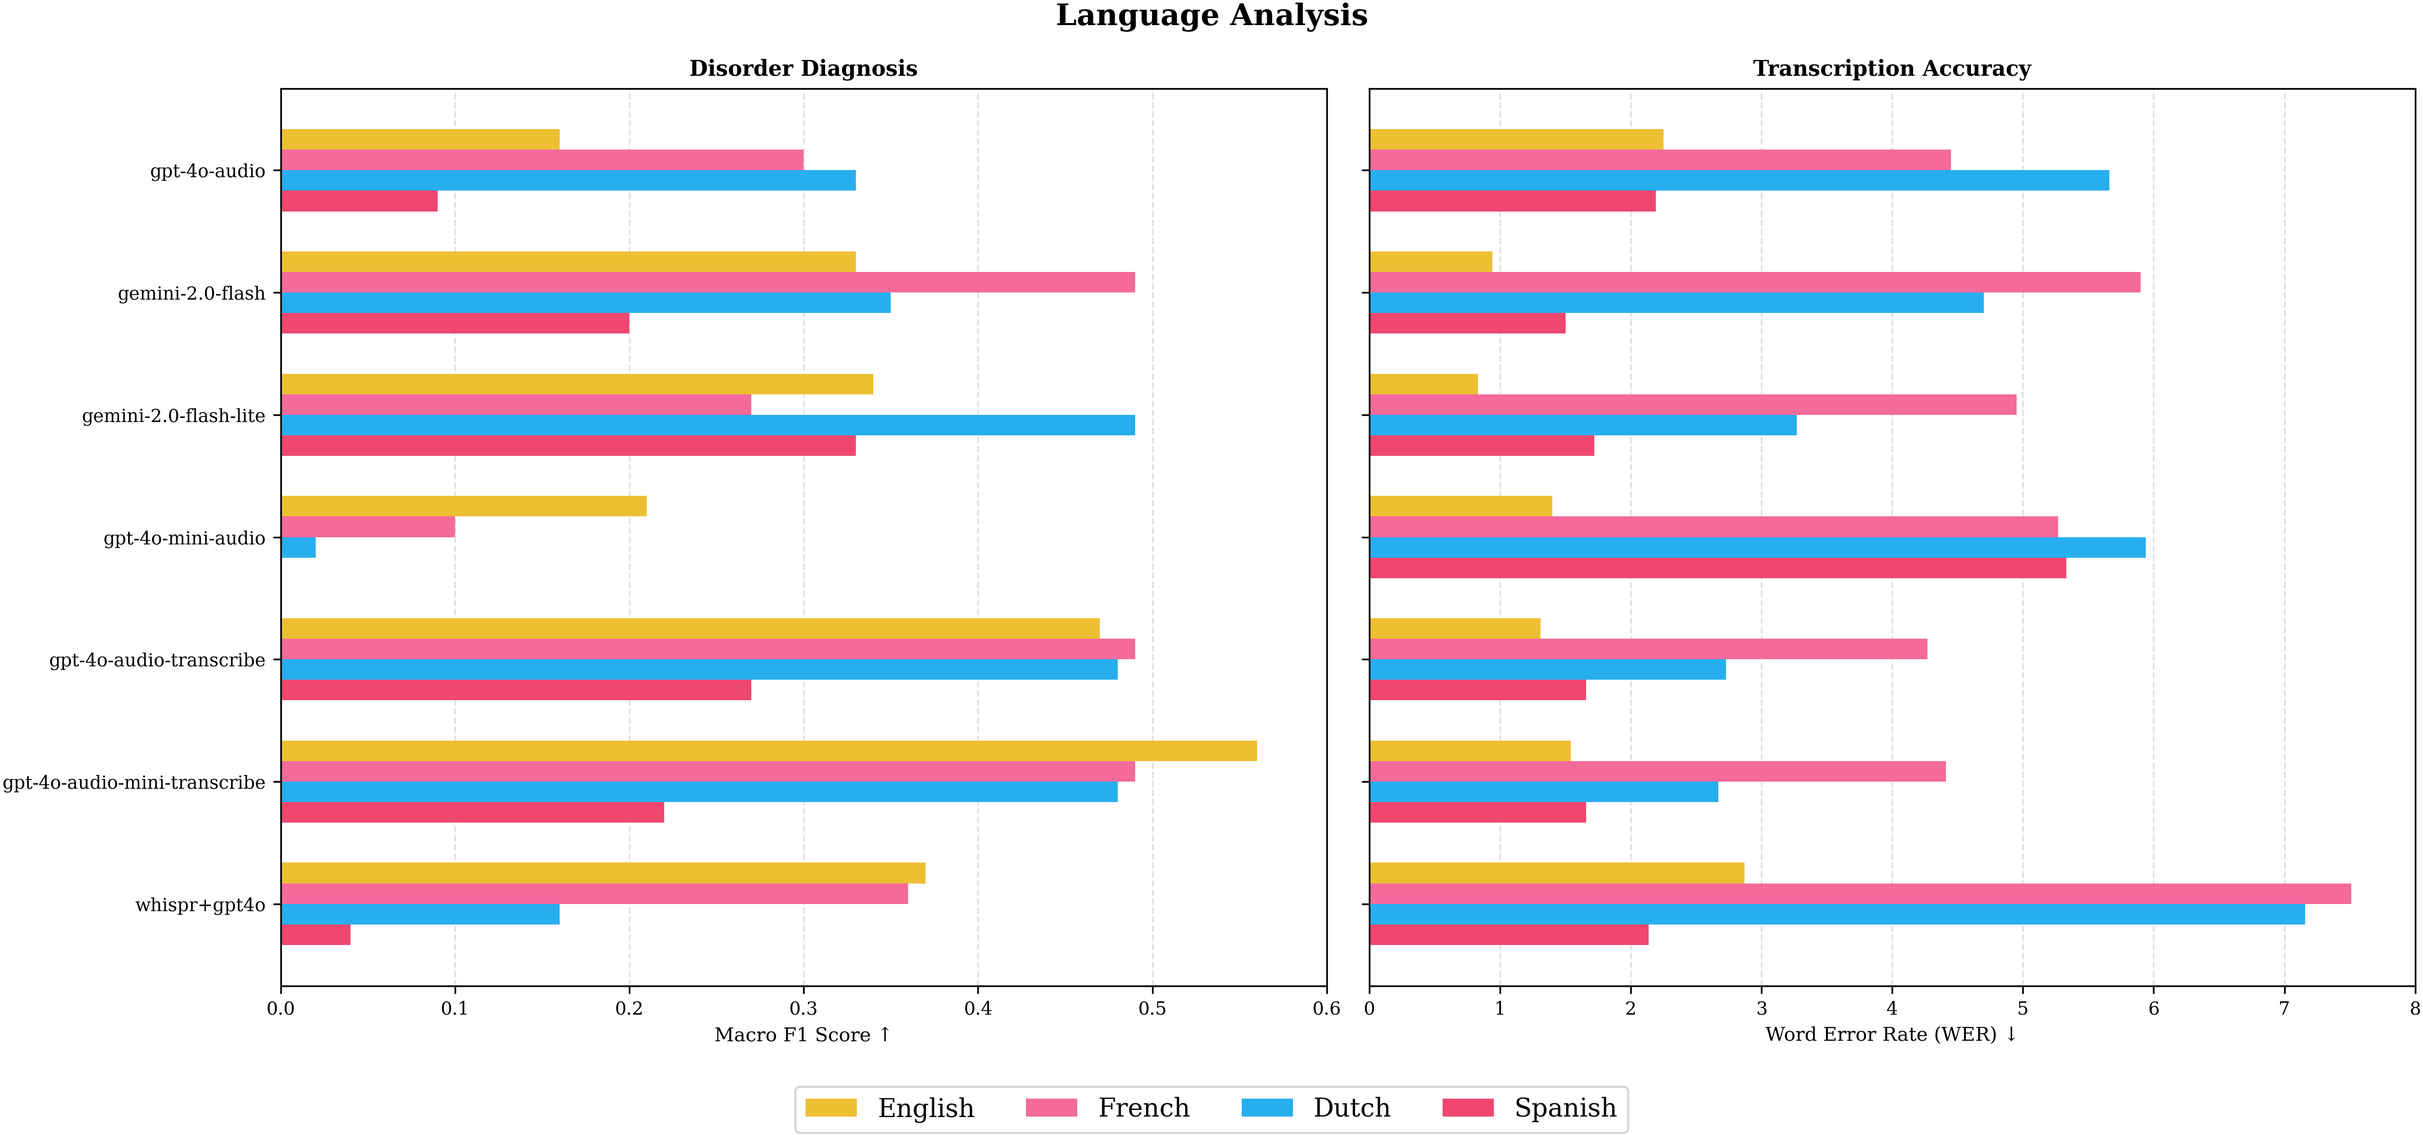
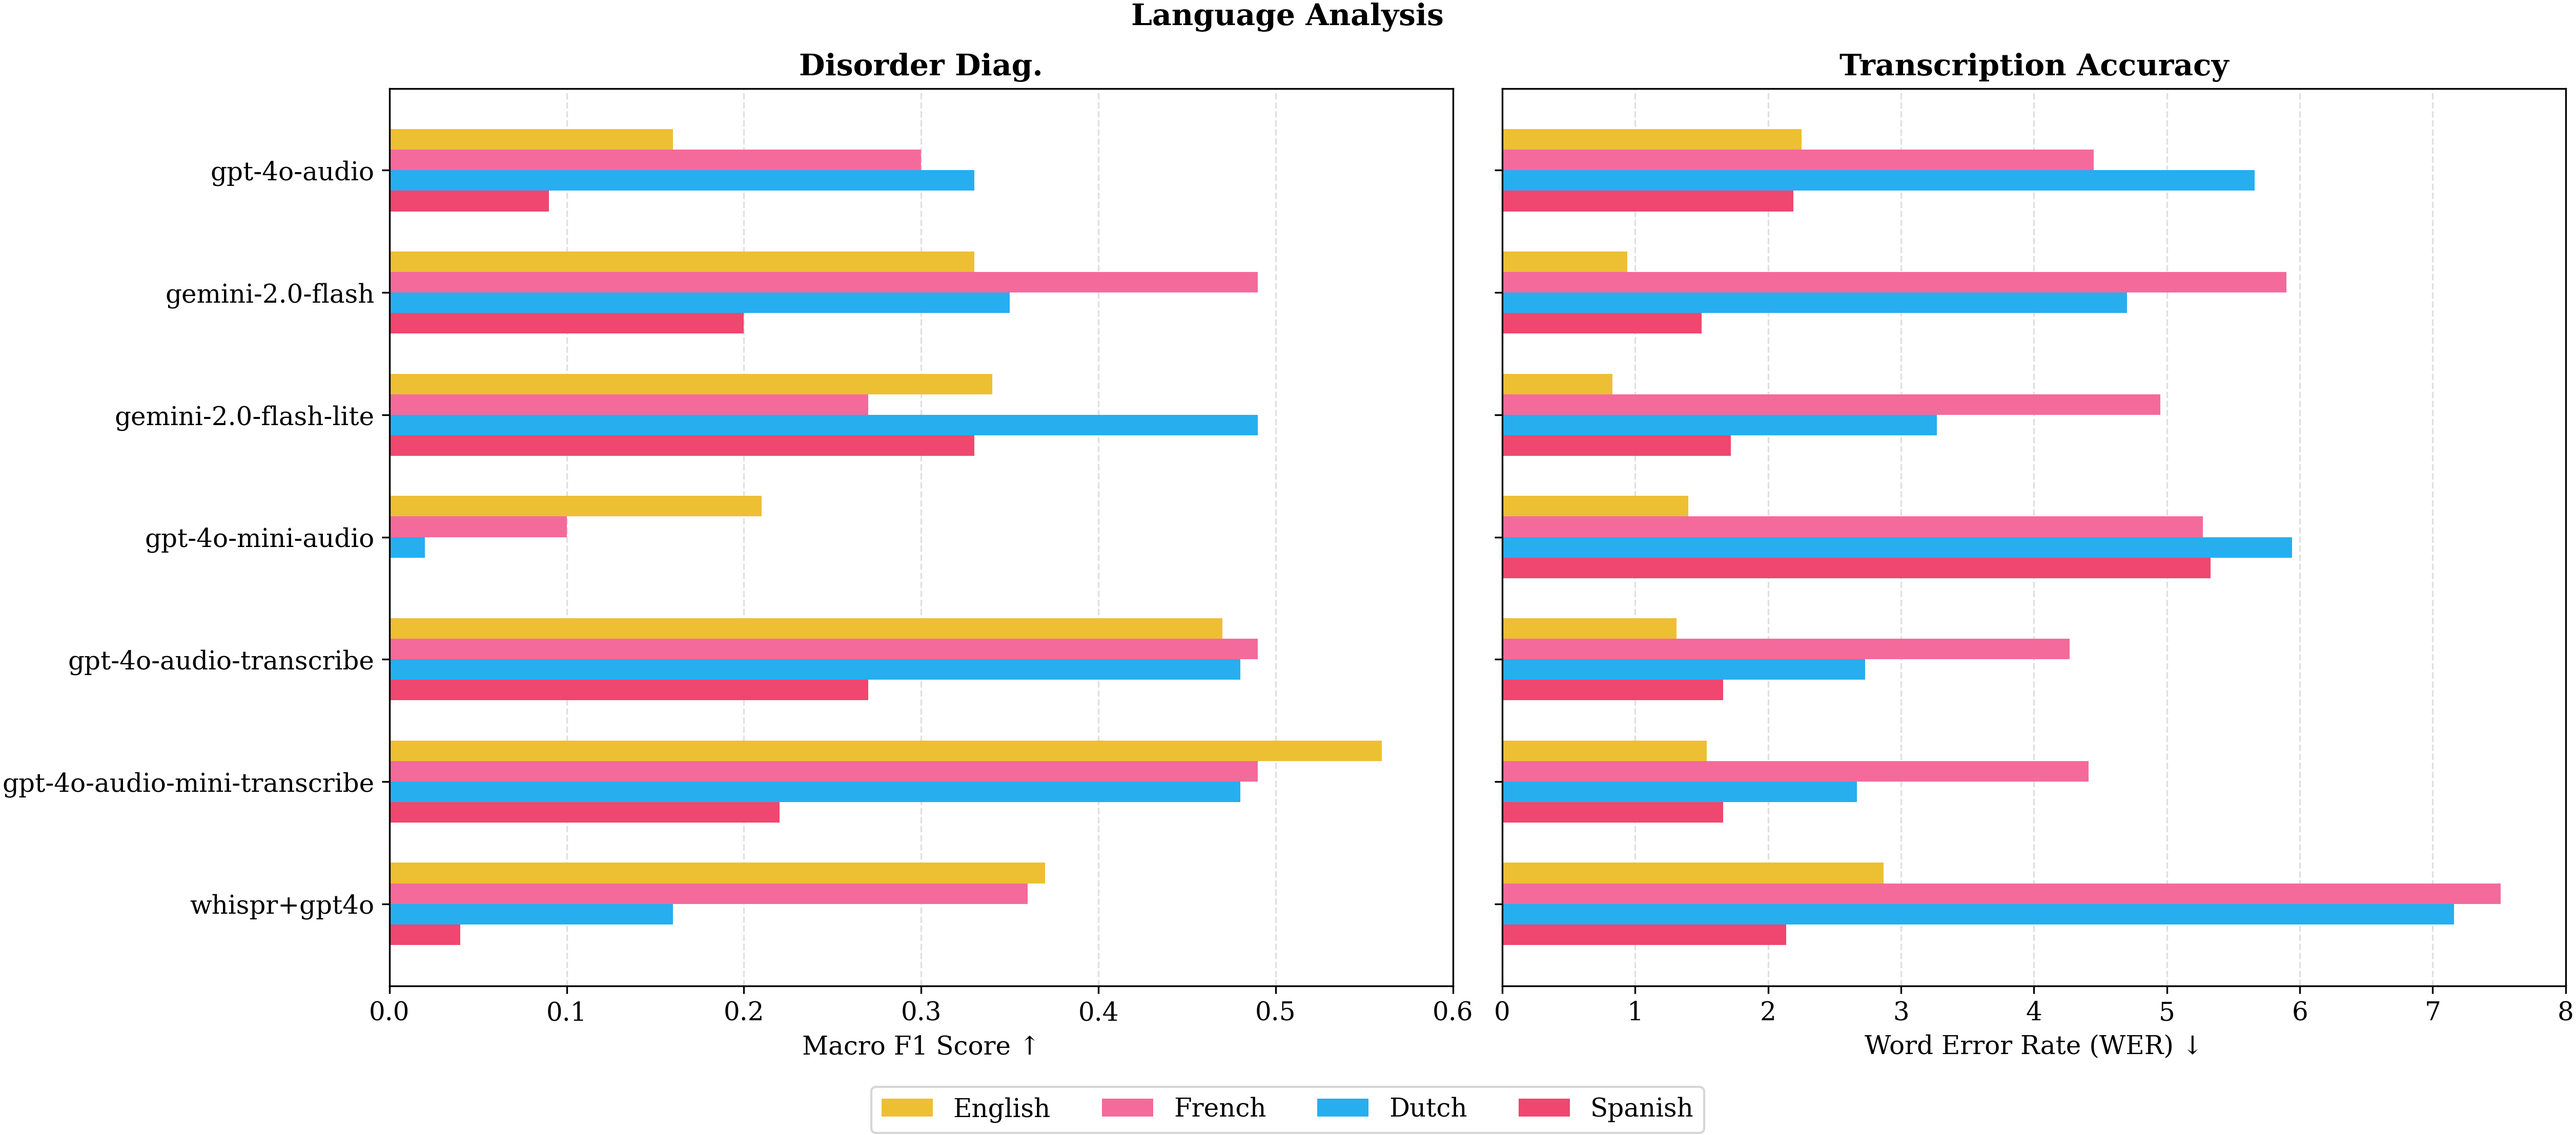
Update figures

diff --git a/all_scenarios.py b/all_scenarios.py
@@ -12,70 +12,70 @@ plt.rcParams['text.usetex'] = False
 MODEL_DATA = {
     'gpt-4o-audio': {
         'disorder_diagnosis': 0.44,
-        'asr_disorder_diagnosis': 0.02,
+        'asr_disorder_diagnosis': 0.4590,  # Updated from 0.02
         'disorder_type_classification': 0.36,
         'disorder_symptom_classification': 0.18,
         'transcription_accuracy': 2.25
     },
     'gemini-2.0-flash': {
         'disorder_diagnosis': 0.46,
-        'asr_disorder_diagnosis': 0.00,
+        'asr_disorder_diagnosis': 0.4600,  # Updated from 0.00
         'disorder_type_classification': 0.46,
         'disorder_symptom_classification': 0.18,
         'transcription_accuracy': 0.94
     },
     'gemini-2.0-flash-lite': {
         'disorder_diagnosis': 0.46,
-        'asr_disorder_diagnosis': 0.01,
+        'asr_disorder_diagnosis': 0.4590,  # Updated from 0.01
         'disorder_type_classification': 0.19,
         'disorder_symptom_classification': 0.41,
         'transcription_accuracy': 0.83
     },
     'gpt-4o-mini-audio': {
         'disorder_diagnosis': 0.20,
-        'asr_disorder_diagnosis': 0.07,
+        'asr_disorder_diagnosis': 0.4838,  # Updated from 0.07
         'disorder_type_classification': 0.15,
         'disorder_symptom_classification': 0.43,
         'transcription_accuracy': 1.40
     },
     'gpt-4o-mini-transcribe': {
         'disorder_diagnosis': 0.56,
-        'asr_disorder_diagnosis': 0.21,
+        'asr_disorder_diagnosis': 0.4600,  # Updated from 0.21
         'disorder_type_classification': 0.35,
         'disorder_symptom_classification': 0.31,
         'transcription_accuracy': 1.54
     },
     'gpt-4o-transcribe': {
         'disorder_diagnosis': 0.47,
-        'asr_disorder_diagnosis': 0.13,
+        'asr_disorder_diagnosis': 0.4600,  # Updated from 0.13
         'disorder_type_classification': 0.38,
         'disorder_symptom_classification': 0.31,
         'transcription_accuracy': 1.31
     },
     'whispr+gpt4o': {
         'disorder_diagnosis': 0.47,
-        'asr_disorder_diagnosis': 0.00,
+        'asr_disorder_diagnosis': 0.4611,  # Updated from 0.00
         'disorder_type_classification': 0.43,
         'disorder_symptom_classification': 0.36,
         'transcription_accuracy': 2.84
     },
     'qwen2.5-omni-7b': {
         'disorder_diagnosis': 0.71,
-        'asr_disorder_diagnosis': 0.07,
+        'asr_disorder_diagnosis': 0.713,  # Updated from 0.07
         'disorder_type_classification': 0.71,
         'disorder_symptom_classification': 0.71,
         'transcription_accuracy': 2.71
     },
     'qwen2.5-omni-3b': {
         'disorder_diagnosis': 0.42,
-        'asr_disorder_diagnosis': 0.01,
+        'asr_disorder_diagnosis': 0.738,  # Updated from 0.01
         'disorder_type_classification': 0.44,
         'disorder_symptom_classification': 0.44,
         'transcription_accuracy': 4.98
     },
     'qwen2-audio-7b': {
         'disorder_diagnosis': 0.45,
-        'asr_disorder_diagnosis': 0.03,
+        'asr_disorder_diagnosis': 0.743,  # Updated from 0.03
         'disorder_type_classification': 0.33,
         'disorder_symptom_classification': 0.10,
         'transcription_accuracy': 2.29
@@ -89,28 +89,28 @@ MODEL_DATA = {
     },
     'Phi-4': {
         'disorder_diagnosis': 0.32,
-        'asr_disorder_diagnosis': 0.06,
+        'asr_disorder_diagnosis': 0.724,  # Updated from 0.06
         'disorder_type_classification': 0.37,
         'disorder_symptom_classification': 0.13,
         'transcription_accuracy': 6.36
     },
     'granite-speech-3.3-8b': {
         'disorder_diagnosis': 0.00,
-        'asr_disorder_diagnosis': 0.03,
+        'asr_disorder_diagnosis': 0.746,  # Updated from 0.03
         'disorder_type_classification': 0.00,
         'disorder_symptom_classification': 0.00,
         'transcription_accuracy': 0.00
     },
     'granite-speech-3.2-8b': {
         'disorder_diagnosis': 0.00,
-        'asr_disorder_diagnosis': 0.03,
+        'asr_disorder_diagnosis': 0.721,  # Updated from 0.03
         'disorder_type_classification': 0.00,
         'disorder_symptom_classification': 0.00,
         'transcription_accuracy': 13.50
     },
     'granite-speech-3.3-3b': {
         'disorder_diagnosis': 0.00,
-        'asr_disorder_diagnosis': 0.04,
+        'asr_disorder_diagnosis': 0.739,  # Updated from 0.04
         'disorder_type_classification': 0.01,
         'disorder_symptom_classification': 0.20,
         'transcription_accuracy': 6.64
@@ -121,19 +121,19 @@ MODEL_DATA = {
 SCENARIOS = {
     'disorder_diagnosis': {
         'title': 'Disorder Diagnosis \n Micro F1 ↑',
-        'xlim_upper': 0.75
+        'xlim_upper': 0.9
     },
     'asr_disorder_diagnosis': {
         'title': 'ASR-Based Disorder Diagnosis \n Micro F1 ↑',
-        'xlim_upper': 0.75
+        'xlim_upper': 0.9
     },
     'disorder_type_classification': {
         'title': 'Disorder Type Classification \n Micro F1 ↑',
-        'xlim_upper': 0.75
+        'xlim_upper': 0.9
     },
     'disorder_symptom_classification': {
         'title': 'Disorder Symptom Classification \n Micro F1 ↑',
-        'xlim_upper': 0.75
+        'xlim_upper': 0.9
     },
     'transcription_accuracy': {
         'title': 'Transcription Accuracy \n WER ↓',
@@ -210,17 +210,17 @@ def plot_scenario(ax, models, scores, title_text, xlim_upper, show_labels=True):
     # Set y-axis ticks and labels (model names)
     ax.set_yticks(y_pos)
     if show_labels:
-        ax.set_yticklabels(models, fontsize=8.5)
+        ax.set_yticklabels(models, fontsize=12)
     else:
         ax.set_yticklabels([''] * len(models))  # Empty labels but keep ticks
     ax.invert_yaxis()  # To display models from top to bottom
 
     # Set x-axis label and limits
     ax.set_xlim(0, xlim_upper)
-    ax.tick_params(axis='x', labelsize=8.5)
+    ax.tick_params(axis='x', labelsize=12)
 
     # Set title for the subplot
-    ax.set_title(f"{title_text}", fontsize=10, fontweight='bold')
+    ax.set_title(f"{title_text}", fontsize=14, fontweight='bold')
 
     # Add both horizontal and vertical gridlines
     ax.grid(True, linestyle='--', color='lightgray', alpha=0.7)

diff --git a/extra_analysis_figure.py b/extra_analysis_figure.py
@@ -57,20 +57,20 @@ def plot_horizontal_grouped_bar_chart(ax, models, scores1, scores2, label1, labe
     # Set y-axis ticks and labels (model names)
     ax.set_yticks(y_pos)
     if show_yticklabels:
-        ax.set_yticklabels(models, fontsize=8.5)
+        ax.set_yticklabels(models, fontsize=12)
     else:
         ax.set_yticklabels([''] * len(models))
 
     ax.invert_yaxis()  # Display models from top to bottom
-    ax.tick_params(axis='y', labelsize=8.5)
+    ax.tick_params(axis='y', labelsize=12)
 
     # Set x-axis label and limits
-    ax.set_xlabel(x_label, fontsize=9)
+    ax.set_xlabel(x_label, fontsize=12)
     ax.set_xlim(0, xlim_upper)
-    ax.tick_params(axis='x', labelsize=8.5)
+    ax.tick_params(axis='x', labelsize=12)
 
     # Set title for the subplot
-    ax.set_title(title, fontsize=10, fontweight='bold')
+    ax.set_title(title, fontsize=14, fontweight='bold')
 
     # Add gridlines (vertical gridlines along the x-axis)
     ax.grid(True, linestyle='--', color='lightgray', alpha=0.7, axis='x')
@@ -175,19 +175,19 @@ fig, axes = plt.subplots(1, 6, figsize=(fig_width, fig_height))
 plot_configs = [
     # Perturbation Analysis
     (type_f1_pert, noisy_type_f1, 'Unperturbed', 'Perturbed', 
-     color_perturbation, 'Disorder Type Diagnosis', 'Micro F1 Score ↑', x_lim, True, None, None, None, None, None, None),
+     color_perturbation, 'Disorder Type Diag.', 'Micro F1 Score ↑', x_lim, True, None, None, None, None, None, None),
     (symp_f1_pert, noisy_symp_f1, 'Unperturbed', 'Perturbed', 
-     color_perturbation, 'Symptom Diagnosis', 'Micro F1 Score ↑', x_lim, False, None, None, None, None, None, None),
+     color_perturbation, 'Symptom Diag.', 'Micro F1 Score ↑', x_lim, False, None, None, None, None, None, None),
     
     # Gender Analysis
     (male_binary_f1, female_binary_f1, 'Male', 'Female', 
-     color_gender, 'Disorder Diagnosis', 'Micro F1 Score ↑', x_lim, False, None, None, None, None, None, None),
+     color_gender, 'Disorder Diag.', 'Micro F1 Score ↑', x_lim, False, None, None, None, None, None, None),
     (male_type_f1, female_type_f1, 'Male', 'Female', 
-     color_gender, 'Disorder Type Diagnosis', 'Micro F1 Score ↑', x_lim, False, None, None, None, None, None, None),
+     color_gender, 'Disorder Type Diag.', 'Micro F1 Score ↑', x_lim, False, None, None, None, None, None, None),
     
     # Language Analysis (4 languages)
     (english_scores_f1, french_scores_f1, 'English', 'French', 
-     color_language, 'Disorder Diagnosis', 'Macro F1 Score ↑', x_lim, False, dutch_scores_f1, 'Dutch', color_language[2], spanish_scores_f1, 'Spanish', color_language[3]),
+     color_language, 'Disorder Diag.', 'Macro F1 Score ↑', x_lim, False, dutch_scores_f1, 'Dutch', color_language[2], spanish_scores_f1, 'Spanish', color_language[3]),
     (english_scores_wer, french_scores_wer, 'English', 'French', 
      color_language, 'Transcription Accuracy', 'Word Error Rate (WER) ↓', xlim_upper_wer, False, dutch_scores_wer, 'Dutch', color_language[2], spanish_scores_wer, 'Spanish', color_language[3]),
 ]
@@ -263,7 +263,7 @@ plot_pairs = [
 # Create 3 separate figures
 for fig_idx, (fig_title, plot_pair) in enumerate(zip(figure_titles, plot_pairs)):
     # Create figure with 2 subplots - make it taller for better spacing
-    fig_pair, axes_pair = plt.subplots(1, 2, figsize=(16, 8))
+    fig_pair, axes_pair = plt.subplots(1, 2, figsize=(17, 8))
     
     # Store legend handles for this figure
     pair_legend_handles = {}

diff --git a/finetune_figure.py b/finetune_figure.py
@@ -49,10 +49,10 @@ fig, axes = plt.subplots(1, 4, figsize=(16, 4))
 
 # Plot data for each subplot
 subplot_data = [
-    (disorder_diagnosis_data, 'Disorder Diagnosis', 'Micro F1 Score ↑', (0.0, 1.0)),
+    (disorder_diagnosis_data, 'Disorder Diag.', 'Micro F1 Score ↑', (0.0, 1.0)),
     (transcription_accuracy_data, 'Transcription Accuracy', 'Word Error Rate ↓', (0, 6)),
-    (disorder_type_data, 'Disorder Type Diagnosis', 'Micro F1 Score ↑', (0.0, 1.0)),
-    (disorder_symptom_data, 'Disorder Symptom Diagnosis', 'Micro F1 Score ↑', (0.0, 1.0))
+    (disorder_type_data, 'Disorder Type Diag.', 'Micro F1 Score ↑', (0.0, 1.0)),
+    (disorder_symptom_data, 'Symptom Diag.', 'Micro F1 Score ↑', (0.0, 1.0))
 ]
 
 # Create horizontal bar plots
@@ -74,12 +74,12 @@ for idx, (data, title, xlabel, xlim) in enumerate(subplot_data):
     ax.set_yticks(y_pos)
     # Only show y-axis labels on the leftmost plot
     if idx == 0:
-        ax.set_yticklabels(models)
+        ax.set_yticklabels(models, fontsize=12)
     else:
         ax.set_yticklabels([])
     
-    ax.set_xlabel(xlabel)
-    ax.set_title(title, fontweight='bold')
+    ax.set_xlabel(xlabel, fontsize=12)
+    ax.set_title(title, fontweight='bold', fontsize=14)
     ax.set_xlim(xlim)
     ax.grid(axis='x', alpha=0.3)
     
@@ -91,6 +91,7 @@ for idx, (data, title, xlabel, xlim) in enumerate(subplot_data):
 plt.tight_layout()
 
 # Show the plot
+plt.savefig('Finetuning.png', dpi=300, bbox_inches='tight')
 plt.show()
 
 # Optional: Save the figure

diff --git a/age_group_analysis.py b/age_group_analysis.py
@@ -32,20 +32,20 @@ def plot_horizontal_grouped_bar_chart(ax, models, scores1, scores2, scores3, lab
     # Set y-axis ticks and labels (model names)
     ax.set_yticks(y_pos)
     if show_yticklabels:
-        ax.set_yticklabels(models, fontsize=8.5, fontweight='bold')
+        ax.set_yticklabels(models, fontsize=14)
     else:
         ax.set_yticklabels([''] * len(models))
 
     ax.invert_yaxis()  # Display models from top to bottom
-    ax.tick_params(axis='y', labelsize=8.5)
+    ax.tick_params(axis='y', labelsize=14)
 
     # Set x-axis label and limits
-    ax.set_xlabel(x_label, fontsize=9)
+    ax.set_xlabel(x_label, fontsize=14)
     ax.set_xlim(0, xlim_upper)
-    ax.tick_params(axis='x', labelsize=8.5)
+    ax.tick_params(axis='x', labelsize=14)
 
     # Set title for the subplot
-    ax.set_title(title, fontsize=10, fontweight='bold')
+    ax.set_title(title, fontsize=18, fontweight='bold')
 
     # Add gridlines (vertical gridlines along the x-axis)
     ax.grid(True, linestyle='--', color='lightgray', alpha=0.7, axis='x')
